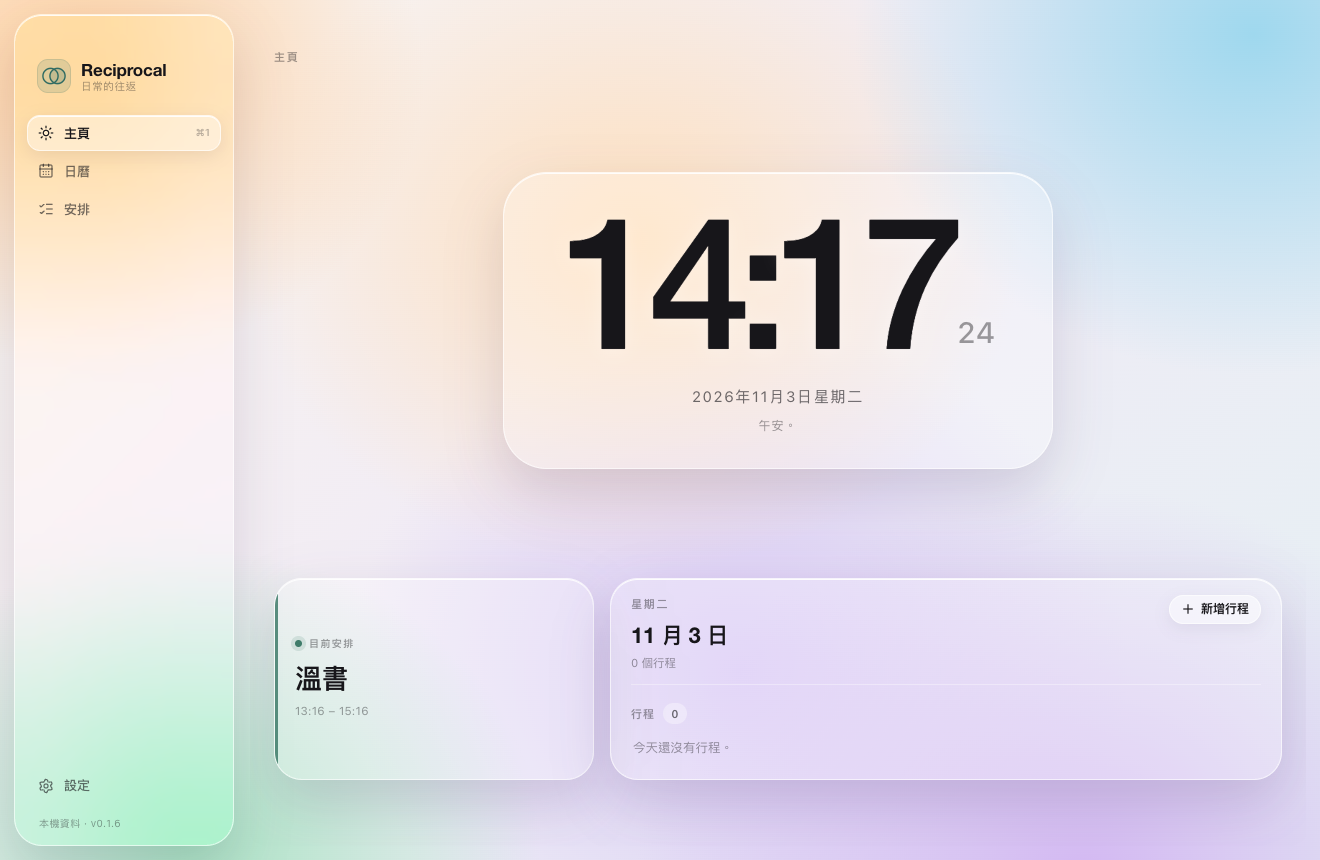
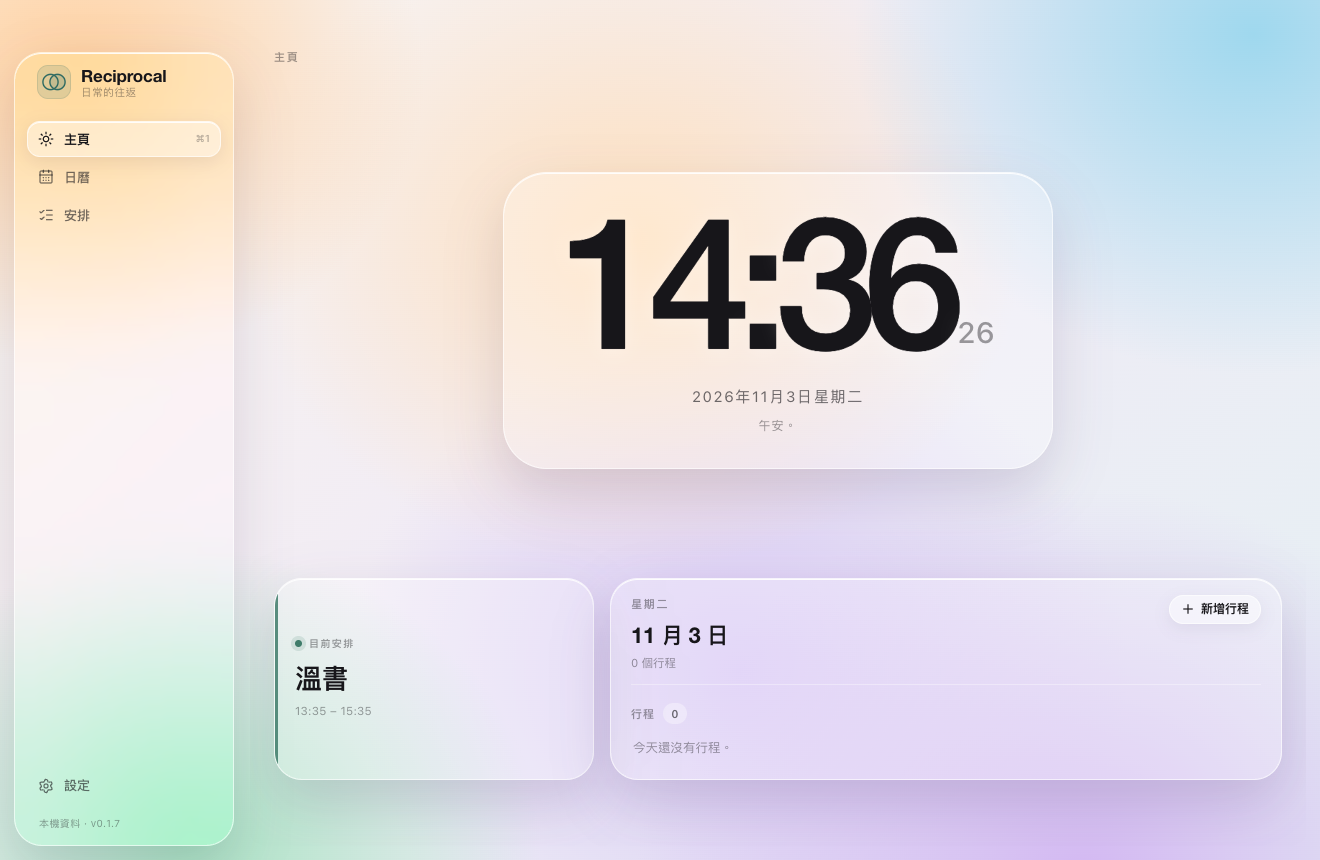
Fix Liquid Glass traffic lights and portal calendar dropdown

Changed region(s): [[0.5902, 0.2419, 0.7455, 0.4233], [0.0, 0.0605, 0.1864, 0.2721], [0.2485, 0.8163, 0.2795, 0.8465]]

diff --git a/src/components/CalendarMultiSelect.tsx b/src/components/CalendarMultiSelect.tsx
@@ -1,4 +1,11 @@
-import React, { useEffect, useRef, useState } from "react";
+import React, {
+  useCallback,
+  useEffect,
+  useLayoutEffect,
+  useRef,
+  useState,
+} from "react";
+import { createPortal } from "react-dom";
 import { ChevronDown } from "lucide-react";
 import type { AppleCalendarInfo } from "../lib/types";
 
@@ -26,14 +33,64 @@ export const CalendarMultiSelect: React.FC<Props> = ({
   metaFor,
 }) => {
   const [open, setOpen] = useState(false);
+  const [panelStyle, setPanelStyle] = useState<React.CSSProperties | null>(null);
   const rootRef = useRef<HTMLDivElement>(null);
+  const triggerRef = useRef<HTMLButtonElement>(null);
+  const panelRef = useRef<HTMLDivElement>(null);
+
+  const updatePanelPosition = useCallback(() => {
+    const trigger = triggerRef.current;
+    if (!trigger) return;
+    const rect = trigger.getBoundingClientRect();
+    const width = Math.min(320, window.innerWidth - 16);
+    const left = Math.max(
+      8,
+      Math.min(rect.right - width, window.innerWidth - width - 8),
+    );
+    const spaceBelow = window.innerHeight - rect.bottom - 12;
+    const spaceAbove = rect.top - 12;
+    const openAbove = spaceBelow < 220 && spaceAbove > spaceBelow;
+    const maxHeight = Math.max(180, Math.min(360, openAbove ? spaceAbove : spaceBelow));
+    const top = openAbove
+      ? Math.max(8, rect.top - maxHeight - 6)
+      : rect.bottom + 6;
+    setPanelStyle({
+      position: "fixed",
+      top,
+      left,
+      right: "auto",
+      width,
+      maxHeight,
+      zIndex: 130,
+    });
+  }, []);
+
+  useLayoutEffect(() => {
+    if (!open) {
+      setPanelStyle(null);
+      return;
+    }
+    updatePanelPosition();
+    const onScroll = () => updatePanelPosition();
+    window.addEventListener("scroll", onScroll, true);
+    window.addEventListener("resize", onScroll);
+    return () => {
+      window.removeEventListener("scroll", onScroll, true);
+      window.removeEventListener("resize", onScroll);
+    };
+  }, [open, updatePanelPosition]);
 
   useEffect(() => {
     if (!open) return;
     const onPointerDown = (event: PointerEvent) => {
-      if (rootRef.current && !rootRef.current.contains(event.target as Node)) {
-        setOpen(false);
+      const target = event.target as Node;
+      if (
+        rootRef.current?.contains(target) ||
+        panelRef.current?.contains(target)
+      ) {
+        return;
       }
+      setOpen(false);
     };
     const onKeyDown = (event: KeyboardEvent) => {
       if (event.key === "Escape") setOpen(false);
@@ -64,6 +121,7 @@ export const CalendarMultiSelect: React.FC<Props> = ({
   return (
     <div className="calendar-multi" ref={rootRef}>
       <button
+        ref={triggerRef}
         type="button"
         className={`calendar-multi__trigger ${open ? "is-open" : ""}`}
         aria-label={ariaLabel}
@@ -77,8 +135,15 @@ export const CalendarMultiSelect: React.FC<Props> = ({
         <ChevronDown size={14} className={`calendar-multi__chevron ${open ? "is-open" : ""}`} />
       </button>
 
-      {open && !loading && calendars.length > 0 ? (
-        <div className="calendar-multi__panel" role="group" aria-label={ariaLabel}>
+      {open && !loading && calendars.length > 0 && panelStyle
+        ? createPortal(
+        <div
+          ref={panelRef}
+          className="calendar-multi__panel"
+          style={panelStyle}
+          role="group"
+          aria-label={ariaLabel}
+        >
           <div className="calendar-multi__panel-head">
             <span>
               {selected.length} / {calendars.length} 已選
@@ -129,8 +194,10 @@ export const CalendarMultiSelect: React.FC<Props> = ({
           </div>
 
           {calendarBusyNote(disabled)}
-        </div>
-      ) : null}
+        </div>,
+        document.body,
+      )
+        : null}
     </div>
   );
 };

diff --git a/src/styles/app.css b/src/styles/app.css
@@ -4151,6 +4151,8 @@ html[data-platform="windows"] .main__drag {
   z-index: 40;
   width: 320px;
   max-height: 360px;
+  display: flex;
+  flex-direction: column;
   overflow: hidden;
   padding: 10px;
   border-radius: 12px;
@@ -4178,6 +4180,8 @@ html[data-platform="windows"] .main__drag {
   display: flex;
   flex-direction: column;
   gap: 2px;
+  flex: 1;
+  min-height: 0;
   max-height: 270px;
   overflow-y: auto;
 }
@@ -4485,6 +4489,7 @@ html[data-ui-style="glass"] {
   --radius-xs: 10px;
   --glass-bg: rgba(255, 255, 255, 0.26);
   --glass-bg-strong: rgba(255, 255, 255, 0.38);
+  --glass-popover: rgba(255, 255, 255, 0.66);
   --glass-control: rgba(255, 255, 255, 0.34);
   --glass-control-hover: rgba(255, 255, 255, 0.5);
   --glass-input: rgba(255, 255, 255, 0.3);
@@ -4513,6 +4518,7 @@ html[data-theme="dark"][data-ui-style="glass"] {
   --ring-track: rgba(255, 255, 255, 0.12);
   --glass-bg: rgba(31, 27, 47, 0.42);
   --glass-bg-strong: rgba(31, 27, 47, 0.56);
+  --glass-popover: rgba(31, 27, 47, 0.84);
   --glass-control: rgba(255, 255, 255, 0.1);
   --glass-control-hover: rgba(255, 255, 255, 0.16);
   --glass-input: rgba(255, 255, 255, 0.08);
@@ -4696,7 +4702,7 @@ html[data-ui-style="glass"] .input::placeholder {
 }
 
 html[data-ui-style="glass"] .calendar-multi__panel {
-  background: var(--glass-bg-strong);
+  background: var(--glass-popover);
   border-color: var(--glass-border);
   box-shadow: var(--glass-shadow);
   backdrop-filter: var(--glass-blur);
@@ -5138,4 +5144,14 @@ html[data-ui-style="glass"] .tt__head {
   background: var(--glass-bg-strong);
   backdrop-filter: blur(26px) saturate(1.7);
   -webkit-backdrop-filter: blur(26px) saturate(1.7);
+}
+
+/* macOS traffic lights: keep the floating glass rail clear of the titlebar buttons */
+html[data-platform="macos"][data-ui-style="glass"] .sidebar {
+  margin-top: 38px;
+  height: auto;
+}
+
+html[data-platform="macos"][data-ui-style="glass"] .sidebar__drag {
+  height: 8px;
 }

diff --git a/README.md b/README.md
@@ -211,7 +211,7 @@ npm run build
 # 互動檢查（需要 dev server）：主頁時鐘、快速新增、看板拖曳、
 # modal 定位、主題切換與持久化
 npm run dev          # 另開一個終端
-npm run shots        # 85 checks（需要本機 Chrome）
+npm run shots        # 88 checks（需要本機 Chrome）
 ```
 
 實機驗證方式：以 `RECIPROCAL_DATA_DIR` 啟動建置後的 `.app`，確認 SQLite 建表與種子資料寫入，並從日誌確認 WebView 載入後成功呼叫 `load_app`（`ui ready: 3 habits, 8 logs, 3 tasks`）。
